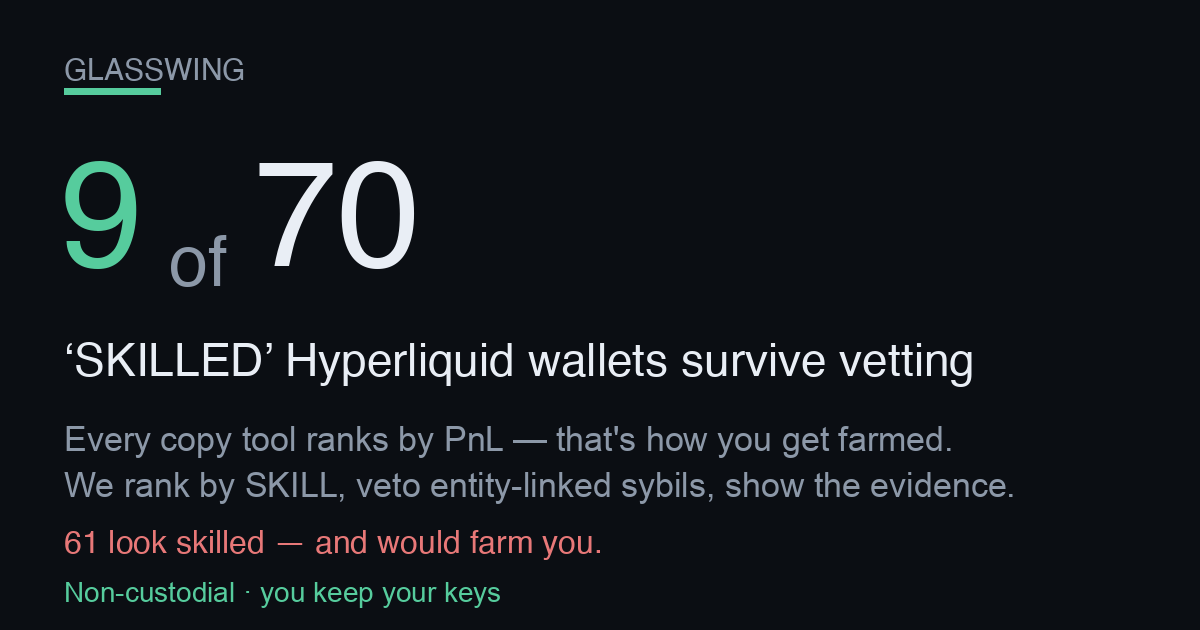
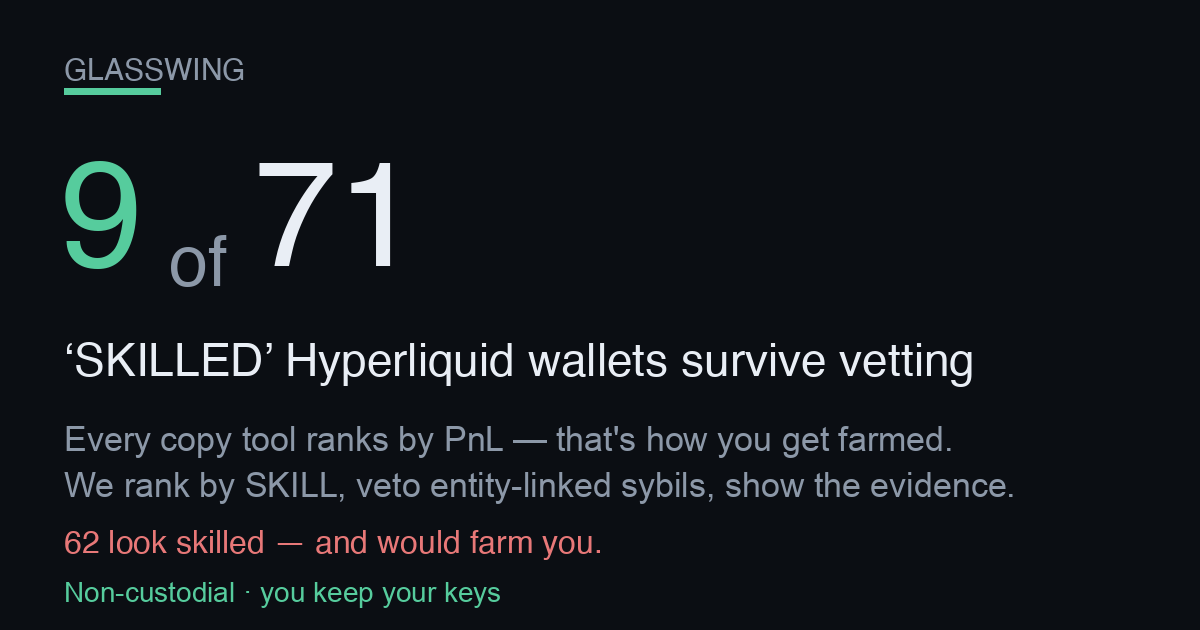
publish funnel 2026-07-26T06:14:21Z

Changed region(s): [[0.2775, 0.2413, 0.37, 0.4222], [0.0617, 0.8444, 0.0925, 0.8746]]

diff --git a/screener.html b/screener.html
@@ -57,4 +57,4 @@ padding:11px 22px;font-size:15px;font-weight:800;border:1px solid var(--good)}
 footer{margin-top:34px;color:var(--muted);font-size:12px;line-height:1.6;
 border-top:1px solid var(--line);padding-top:16px}
 footer b{color:var(--ink)}
-</style></head><body><div class="wrap"><div class="nav"><a href="./index.html">&larr; Glasswing home</a><span class="sep">|</span><span>Edge Screener</span><span class="sep">|</span><a href="./dex.html">Copy a vetted leader</a></div><div class="hero"><h1>Hyperliquid Edge Screener</h1><div class="sub">Where&rsquo;s the carry, where a maker earns, and what&rsquo;s moving on Hyperliquid &mdash; live, computed from the public API. Bookmark it. Every number below is real and timestamped.</div><div class="stamp">Data as of <b>2026-07-26T00:07:19Z</b> &middot; rendered 2026-07-26T00:07:19Z &middot; 177 perps &middot; 88 HIP-3 (xyz) markets scanned</div></div><h2>Top funding &mdash; the carry table <span class="hint">perps ranked by annualized funding. Positive = longs pay shorts (a delta-neutral short earns it).</span></h2><div class="tblwrap"><table><thead><tr><th>Coin</th><th>Funding / hr</th><th>Annualized</th><th>Who pays</th><th>Open interest</th><th>24h volume</th></tr></thead><tbody><tr><td class="coin">ACE</td><td>-0.0286%</td><td class="neg">-250.9%</td><td><span class="tag shorts">shorts pay</span></td><td>$505K</td><td>$1.7M</td></tr><tr><td class="coin">SAGA<span class="tag thin" title="Low liquidity/OI &mdash; ADL &amp; liquidation risk; funding can flip">&#9888; thin</span></td><td>+0.0118%</td><td class="pos">+103.5%</td><td><span class="tag longs">longs pay</span></td><td>$2.1M</td><td>$112K</td></tr><tr><td class="coin">kSHIB</td><td>-0.0102%</td><td class="neg">-89.1%</td><td><span class="tag shorts">shorts pay</span></td><td>$6.6M</td><td>$20.2M</td></tr><tr><td class="coin">W<span class="tag thin" title="Low liquidity/OI &mdash; ADL &amp; liquidation risk; funding can flip">&#9888; thin</span></td><td>-0.0088%</td><td class="neg">-77.1%</td><td><span class="tag shorts">shorts pay</span></td><td>$1.5M</td><td>$133K</td></tr><tr><td class="coin">MEME<span class="tag thin" title="Low liquidity/OI &mdash; ADL &amp; liquidation risk; funding can flip">&#9888; thin</span></td><td>-0.0085%</td><td class="neg">-74.6%</td><td><span class="tag shorts">shorts pay</span></td><td>$405K</td><td>$71K</td></tr><tr><td class="coin">IOTA<span class="tag thin" title="Low liquidity/OI &mdash; ADL &amp; liquidation risk; funding can flip">&#9888; thin</span></td><td>-0.0084%</td><td class="neg">-73.7%</td><td><span class="tag shorts">shorts pay</span></td><td>$316K</td><td>$68K</td></tr><tr><td class="coin">TRB<span class="tag thin" title="Low liquidity/OI &mdash; ADL &amp; liquidation risk; funding can flip">&#9888; thin</span></td><td>-0.0063%</td><td class="neg">-55.3%</td><td><span class="tag shorts">shorts pay</span></td><td>$373K</td><td>$95K</td></tr><tr><td class="coin">CC</td><td>-0.0060%</td><td class="neg">-52.4%</td><td><span class="tag shorts">shorts pay</span></td><td>$3.4M</td><td>$331K</td></tr><tr><td class="coin">SKR<span class="tag thin" title="Low liquidity/OI &mdash; ADL &amp; liquidation risk; funding can flip">&#9888; thin</span></td><td>-0.0048%</td><td class="neg">-42.2%</td><td><span class="tag shorts">shorts pay</span></td><td>$160K</td><td>$90K</td></tr><tr><td class="coin">RSR<span class="tag thin" title="Low liquidity/OI &mdash; ADL &amp; liquidation risk; funding can flip">&#9888; thin</span></td><td>-0.0044%</td><td class="neg">-38.2%</td><td><span class="tag shorts">shorts pay</span></td><td>$159K</td><td>$40K</td></tr><tr><td class="coin">ADA</td><td>-0.0042%</td><td class="neg">-36.5%</td><td><span class="tag shorts">shorts pay</span></td><td>$25.8M</td><td>$3.8M</td></tr><tr><td class="coin">YGG<span class="tag thin" title="Low liquidity/OI &mdash; ADL &amp; liquidation risk; funding can flip">&#9888; thin</span></td><td>-0.0040%</td><td class="neg">-35.5%</td><td><span class="tag shorts">shorts pay</span></td><td>$147K</td><td>$117K</td></tr></tbody></table></div><h2>Widest HIP-3 spreads &mdash; where a maker earns <span class="hint">xyz: markets by impact-price spread vs the ~0.6bps round-trip fee. A resting limit order captures the gap.</span></h2><div class="tblwrap"><table><thead><tr><th>Market</th><th>Spread</th><th>vs 0.6bps fee</th><th>Mid</th><th>24h volume</th></tr></thead><tbody><tr><td class="coin">xyz:BIRD<span class="tag gm">growth</span></td><td>156.9 bps</td><td class="pos">+156.3 bps</td><td>2.4993</td><td>$116K</td></tr><tr><td class="coin">xyz:GIGADEV<span class="tag gm">growth</span></td><td>144.3 bps</td><td class="pos">+143.7 bps</td><td>66.4355</td><td>$98K</td></tr><tr><td class="coin">xyz:SOFTBANK<span class="tag gm">growth</span></td><td>106.9 bps</td><td class="pos">+106.3 bps</td><td>33.3980</td><td>$265K</td></tr><tr><td class="coin">xyz:BOT<span class="tag gm">growth</span></td><td>79.2 bps</td><td class="pos">+78.6 bps</td><td>25.0485</td><td>$82K</td></tr><tr><td class="coin">xyz:SHAZ<span class="tag gm">growth</span></td><td>76.5 bps</td><td class="pos">+75.9 bps</td><td>63.8330</td><td>$72K</td></tr><tr><td class="coin">xyz:KR200<span class="tag gm">growth</span></td><td>72.1 bps</td><td class="pos">+71.5 bps</td><td>1,049.15</td><td>$45K</td></tr><tr><td class="coin">xyz:PURRDAT</td><td>69.3 bps</td><td class="pos">+68.7 bps</td><td>6.2946</td><td>$100K</td></tr><tr><td class="coin">xyz:CXMT<span class="tag gm">growth</span></td><td>64.6 bps</td><td class="pos">+64.0 bps</td><td>6.1269</td><td>$18.5M</td></tr><tr><td class="coin">xyz:SMH<span class="tag gm">growth</span></td><td>64.2 bps</td><td class="pos">+63.6 bps</td><td>567.7400</td><td>$123K</td></tr><tr><td class="coin">xyz:URNM<span class="tag gm">growth</span></td><td>63.9 bps</td><td class="pos">+63.3 bps</td><td>49.6770</td><td>$14K</td></tr><tr><td class="coin">xyz:MINIMAX<span class="tag gm">growth</span></td><td>58.0 bps</td><td class="pos">+57.4 bps</td><td>24.4035</td><td>$118K</td></tr><tr><td class="coin">xyz:KIOXIA<span class="tag gm">growth</span></td><td>52.5 bps</td><td class="pos">+51.9 bps</td><td>329.0150</td><td>$176K</td></tr></tbody></table></div><h2>Momentum &amp; volume &mdash; what&rsquo;s moving <span class="hint">perps by 24h volume with the 24h price change (mark vs prior-day).</span></h2><div class="tblwrap"><table><thead><tr><th>Coin</th><th>24h volume</th><th>24h change</th><th>Mark</th></tr></thead><tbody><tr><td class="coin">BTC</td><td>$704.8M</td><td class="pos">+0.44%</td><td>64,401.00</td></tr><tr><td class="coin">ETH</td><td>$228.8M</td><td class="pos">+0.77%</td><td>1,876.18</td></tr><tr><td class="coin">HYPE</td><td>$103.6M</td><td class="pos">+1.27%</td><td>58.1660</td></tr><tr><td class="coin">SOL</td><td>$61.7M</td><td class="pos">+0.79%</td><td>74.5550</td></tr><tr><td class="coin">ZEC</td><td>$30.4M</td><td class="neg">-0.56%</td><td>486.2500</td></tr><tr><td class="coin">kSHIB</td><td>$20.2M</td><td class="pos">+16.52%</td><td>0.004873</td></tr><tr><td class="coin">XRP</td><td>$14.0M</td><td class="pos">+0.57%</td><td>1.0980</td></tr><tr><td class="coin">KAITO</td><td>$11.3M</td><td class="pos">+3.99%</td><td>1.0072</td></tr><tr><td class="coin">PUMP</td><td>$9.0M</td><td class="neg">-2.99%</td><td>0.001783</td></tr><tr><td class="coin">WLD</td><td>$8.3M</td><td class="neg">-0.46%</td><td>0.34509</td></tr><tr><td class="coin">DOGE</td><td>$7.4M</td><td class="pos">+3.04%</td><td>0.0717</td></tr><tr><td class="coin">LIT</td><td>$7.4M</td><td class="pos">+1.59%</td><td>2.0721</td></tr></tbody></table></div><div class="cta"><h2>These are the opportunities. Now copy the people who trade them.</h2><p class="lead">Spotting the carry and the spreads is the easy part &mdash; sizing, timing and risk are where most traders bleed. Copy the <b>skill-vetted</b> Hyperliquid leaders who actually trade these edges. Non-custodial: <b>you keep your keys and your funds</b> the entire time.</p><div class="row"><a class="btn" href="./index.html">See the vetted leaders &rarr;</a><a class="btn ghost" href="./dex.html">Start copying (non-custodial) &rarr;</a></div><div class="nc"><b>Non-custodial &amp; honest:</b> we never hold your keys or funds. Copying routes through a <b>0.01%</b> (1bp) on-chain builder fee &mdash; that is the only thing we ever charge, and it is the same fee shown on the copy page. Nothing on this screener is executed for you; it is information only.</div></div><footer><b>Not financial advice.</b> Funding rates, spreads and volumes are live snapshots that change every block; figures can be stale by the time you act. A high funding rate is <b>not free money</b> &mdash; the biggest rates sit on the thinnest, most crowded books (flagged &#9888; thin), where funding can flip against you and auto-deleveraging (ADL) or liquidation can close your position. &ldquo;Spread&rdquo; here is the impact-price spread (a conservative maker signal), not a guaranteed fill. HIP-3 markets are experimental. Do your own research and size responsibly. Glasswing is <b>non-custodial</b> &mdash; we never take custody of your keys or funds.</footer></div></body></html>
+</style></head><body><div class="wrap"><div class="nav"><a href="./index.html">&larr; Glasswing home</a><span class="sep">|</span><span>Edge Screener</span><span class="sep">|</span><a href="./dex.html">Copy a vetted leader</a></div><div class="hero"><h1>Hyperliquid Edge Screener</h1><div class="sub">Where&rsquo;s the carry, where a maker earns, and what&rsquo;s moving on Hyperliquid &mdash; live, computed from the public API. Bookmark it. Every number below is real and timestamped.</div><div class="stamp">Data as of <b>2026-07-26T06:12:11Z</b> &middot; rendered 2026-07-26T06:12:11Z &middot; 177 perps &middot; 88 HIP-3 (xyz) markets scanned</div></div><h2>Top funding &mdash; the carry table <span class="hint">perps ranked by annualized funding. Positive = longs pay shorts (a delta-neutral short earns it).</span></h2><div class="tblwrap"><table><thead><tr><th>Coin</th><th>Funding / hr</th><th>Annualized</th><th>Who pays</th><th>Open interest</th><th>24h volume</th></tr></thead><tbody><tr><td class="coin">SAGA<span class="tag thin" title="Low liquidity/OI &mdash; ADL &amp; liquidation risk; funding can flip">&#9888; thin</span></td><td>+0.0555%</td><td class="pos">+486.5%</td><td><span class="tag longs">longs pay</span></td><td>$2.1M</td><td>$96K</td></tr><tr><td class="coin">ACE<span class="tag thin" title="Low liquidity/OI &mdash; ADL &amp; liquidation risk; funding can flip">&#9888; thin</span></td><td>-0.0338%</td><td class="neg">-296.0%</td><td><span class="tag shorts">shorts pay</span></td><td>$480K</td><td>$1.4M</td></tr><tr><td class="coin">SAND<span class="tag thin" title="Low liquidity/OI &mdash; ADL &amp; liquidation risk; funding can flip">&#9888; thin</span></td><td>-0.0074%</td><td class="neg">-64.6%</td><td><span class="tag shorts">shorts pay</span></td><td>$315K</td><td>$109K</td></tr><tr><td class="coin">APEX<span class="tag thin" title="Low liquidity/OI &mdash; ADL &amp; liquidation risk; funding can flip">&#9888; thin</span></td><td>+0.0063%</td><td class="pos">+55.6%</td><td><span class="tag longs">longs pay</span></td><td>$1.3M</td><td>$103K</td></tr><tr><td class="coin">HYPER<span class="tag thin" title="Low liquidity/OI &mdash; ADL &amp; liquidation risk; funding can flip">&#9888; thin</span></td><td>-0.0063%</td><td class="neg">-54.9%</td><td><span class="tag shorts">shorts pay</span></td><td>$301K</td><td>$68K</td></tr><tr><td class="coin">AXS<span class="tag thin" title="Low liquidity/OI &mdash; ADL &amp; liquidation risk; funding can flip">&#9888; thin</span></td><td>-0.0057%</td><td class="neg">-49.9%</td><td><span class="tag shorts">shorts pay</span></td><td>$307K</td><td>$80K</td></tr><tr><td class="coin">IOTA<span class="tag thin" title="Low liquidity/OI &mdash; ADL &amp; liquidation risk; funding can flip">&#9888; thin</span></td><td>-0.0052%</td><td class="neg">-45.1%</td><td><span class="tag shorts">shorts pay</span></td><td>$314K</td><td>$68K</td></tr><tr><td class="coin">SUSHI<span class="tag thin" title="Low liquidity/OI &mdash; ADL &amp; liquidation risk; funding can flip">&#9888; thin</span></td><td>-0.0051%</td><td class="neg">-44.7%</td><td><span class="tag shorts">shorts pay</span></td><td>$412K</td><td>$205K</td></tr><tr><td class="coin">MEME<span class="tag thin" title="Low liquidity/OI &mdash; ADL &amp; liquidation risk; funding can flip">&#9888; thin</span></td><td>-0.0049%</td><td class="neg">-42.5%</td><td><span class="tag shorts">shorts pay</span></td><td>$436K</td><td>$110K</td></tr><tr><td class="coin">2Z<span class="tag thin" title="Low liquidity/OI &mdash; ADL &amp; liquidation risk; funding can flip">&#9888; thin</span></td><td>-0.0043%</td><td class="neg">-38.1%</td><td><span class="tag shorts">shorts pay</span></td><td>$596K</td><td>$144K</td></tr><tr><td class="coin">CAKE<span class="tag thin" title="Low liquidity/OI &mdash; ADL &amp; liquidation risk; funding can flip">&#9888; thin</span></td><td>-0.0043%</td><td class="neg">-37.6%</td><td><span class="tag shorts">shorts pay</span></td><td>$536K</td><td>$161K</td></tr><tr><td class="coin">ME<span class="tag thin" title="Low liquidity/OI &mdash; ADL &amp; liquidation risk; funding can flip">&#9888; thin</span></td><td>-0.0042%</td><td class="neg">-37.2%</td><td><span class="tag shorts">shorts pay</span></td><td>$194K</td><td>$121K</td></tr></tbody></table></div><h2>Widest HIP-3 spreads &mdash; where a maker earns <span class="hint">xyz: markets by impact-price spread vs the ~0.6bps round-trip fee. A resting limit order captures the gap.</span></h2><div class="tblwrap"><table><thead><tr><th>Market</th><th>Spread</th><th>vs 0.6bps fee</th><th>Mid</th><th>24h volume</th></tr></thead><tbody><tr><td class="coin">xyz:GIGADEV<span class="tag gm">growth</span></td><td>277.0 bps</td><td class="pos">+276.4 bps</td><td>66.6170</td><td>$17K</td></tr><tr><td class="coin">xyz:BIRD<span class="tag gm">growth</span></td><td>178.1 bps</td><td class="pos">+177.5 bps</td><td>2.4830</td><td>$32K</td></tr><tr><td class="coin">xyz:SOFTBANK<span class="tag gm">growth</span></td><td>159.8 bps</td><td class="pos">+159.2 bps</td><td>33.3860</td><td>$41K</td></tr><tr><td class="coin">xyz:KIOXIA<span class="tag gm">growth</span></td><td>121.7 bps</td><td class="pos">+121.1 bps</td><td>335.4950</td><td>$284K</td></tr><tr><td class="coin">xyz:PURRDAT</td><td>81.9 bps</td><td class="pos">+81.3 bps</td><td>6.3521</td><td>$107K</td></tr><tr><td class="coin">xyz:KR200<span class="tag gm">growth</span></td><td>76.3 bps</td><td class="pos">+75.7 bps</td><td>1,053.85</td><td>$39K</td></tr><tr><td class="coin">xyz:SHAZ<span class="tag gm">growth</span></td><td>73.0 bps</td><td class="pos">+72.4 bps</td><td>63.8615</td><td>$20K</td></tr><tr><td class="coin">xyz:BOT<span class="tag gm">growth</span></td><td>72.6 bps</td><td class="pos">+72.0 bps</td><td>25.0005</td><td>$62K</td></tr><tr><td class="coin">xyz:SMH<span class="tag gm">growth</span></td><td>64.1 bps</td><td class="pos">+63.5 bps</td><td>564.6200</td><td>$103K</td></tr><tr><td class="coin">xyz:MINIMAX<span class="tag gm">growth</span></td><td>55.4 bps</td><td class="pos">+54.8 bps</td><td>24.4330</td><td>$112K</td></tr><tr><td class="coin">xyz:URNM<span class="tag gm">growth</span></td><td>41.4 bps</td><td class="pos">+40.8 bps</td><td>49.6830</td><td>$19K</td></tr><tr><td class="coin">xyz:ZHIPU<span class="tag gm">growth</span></td><td>39.4 bps</td><td class="pos">+38.8 bps</td><td>160.0600</td><td>$421K</td></tr></tbody></table></div><h2>Momentum &amp; volume &mdash; what&rsquo;s moving <span class="hint">perps by 24h volume with the 24h price change (mark vs prior-day).</span></h2><div class="tblwrap"><table><thead><tr><th>Coin</th><th>24h volume</th><th>24h change</th><th>Mark</th></tr></thead><tbody><tr><td class="coin">BTC</td><td>$647.0M</td><td class="pos">+0.47%</td><td>64,327.00</td></tr><tr><td class="coin">ETH</td><td>$226.1M</td><td class="pos">+1.23%</td><td>1,881.40</td></tr><tr><td class="coin">HYPE</td><td>$108.1M</td><td class="pos">+2.45%</td><td>58.5720</td></tr><tr><td class="coin">SOL</td><td>$60.1M</td><td class="pos">+1.20%</td><td>74.8420</td></tr><tr><td class="coin">kSHIB</td><td>$40.6M</td><td class="pos">+36.56%</td><td>0.005722</td></tr><tr><td class="coin">ZEC</td><td>$28.2M</td><td class="pos">+2.01%</td><td>487.8200</td></tr><tr><td class="coin">XRP</td><td>$14.1M</td><td class="pos">+0.52%</td><td>1.0971</td></tr><tr><td class="coin">KAITO</td><td>$13.4M</td><td class="pos">+6.28%</td><td>1.0257</td></tr><tr><td class="coin">PUMP</td><td>$11.4M</td><td class="pos">+0.33%</td><td>0.001816</td></tr><tr><td class="coin">DOGE</td><td>$10.8M</td><td class="pos">+5.49%</td><td>0.073207</td></tr><tr><td class="coin">WLD</td><td>$9.0M</td><td class="neg">-2.49%</td><td>0.33302</td></tr><tr><td class="coin">VVV</td><td>$7.3M</td><td class="pos">+13.47%</td><td>14.2340</td></tr></tbody></table></div><div class="cta"><h2>These are the opportunities. Now copy the people who trade them.</h2><p class="lead">Spotting the carry and the spreads is the easy part &mdash; sizing, timing and risk are where most traders bleed. Copy the <b>skill-vetted</b> Hyperliquid leaders who actually trade these edges. Non-custodial: <b>you keep your keys and your funds</b> the entire time.</p><div class="row"><a class="btn" href="./index.html">See the vetted leaders &rarr;</a><a class="btn ghost" href="./dex.html">Start copying (non-custodial) &rarr;</a></div><div class="nc"><b>Non-custodial &amp; honest:</b> we never hold your keys or funds. Copying routes through a <b>0.01%</b> (1bp) on-chain builder fee &mdash; that is the only thing we ever charge, and it is the same fee shown on the copy page. Nothing on this screener is executed for you; it is information only.</div></div><footer><b>Not financial advice.</b> Funding rates, spreads and volumes are live snapshots that change every block; figures can be stale by the time you act. A high funding rate is <b>not free money</b> &mdash; the biggest rates sit on the thinnest, most crowded books (flagged &#9888; thin), where funding can flip against you and auto-deleveraging (ADL) or liquidation can close your position. &ldquo;Spread&rdquo; here is the impact-price spread (a conservative maker signal), not a guaranteed fill. HIP-3 markets are experimental. Do your own research and size responsibly. Glasswing is <b>non-custodial</b> &mdash; we never take custody of your keys or funds.</footer></div></body></html>

diff --git a/track.html b/track.html
@@ -62,7 +62,7 @@ font-weight:600;font-size:14px}
 <div class="wrap">
   <div class="hero">
     <h1>Self-verifying on-chain track record</h1>
-    <div class="big">$334.43</div>
+    <div class="big">$332.50</div>
     <div class="sub">current on-chain equity (perp + vault + spot USDC)</div>
     <div class="addr">0xbe6C1b09662BbE52CC93279D103Feb27985DdBc1</div>
     <div class="stage early">7 days live — EARLY / NOT YET A MATURE RECORD</div>
@@ -72,25 +72,25 @@ font-weight:600;font-size:14px}
 
   <h2>On-chain figures <span style="color:var(--muted);font-weight:400;font-size:13px">
   &mdash; every one reproducible from the public info API</span></h2>
-  <table><tbody><tr><td class="k">On-chain equity (perp + vault + spot USDC)</td><td class="v">$334.43</td></tr><tr><td class="k">Perp account value</td><td class="v">$220.77</td></tr><tr><td class="k">Vault equity</td><td class="v">$49.52</td></tr><tr><td class="k">Spot USDC</td><td class="v">$64.14</td></tr><tr><td class="k">Withdrawable</td><td class="v">$98.20</td></tr></tbody></table>
+  <table><tbody><tr><td class="k">On-chain equity (perp + vault + spot USDC)</td><td class="v">$332.50</td></tr><tr><td class="k">Perp account value</td><td class="v">$218.76</td></tr><tr><td class="k">Vault equity</td><td class="v">$49.61</td></tr><tr><td class="k">Spot USDC</td><td class="v">$64.14</td></tr><tr><td class="k">Withdrawable</td><td class="v">$95.16</td></tr></tbody></table>
 
-  <h2>Vault deposits (on-chain)</h2><table><thead><tr><th>Vault address</th><th>Our equity</th></tr></thead><tbody><tr><td class="mono">0x2431edfcb662e6ff6deab113cc91878a0b53fb0f</td><td class="v">$0.01</td></tr><tr><td class="mono">0x697bc3dd77539fa84156d0e1c95287ea5524fd6b</td><td class="v">$25.52</td></tr><tr><td class="mono">0x8825e6ed11c7f9c0874579c9f4bba192b9e81c8f</td><td class="v">$0.12</td></tr><tr><td class="mono">0xc71f5a493b937e4b1798b86510630336a6dfd804</td><td class="v">$23.88</td></tr></tbody></table>
+  <h2>Vault deposits (on-chain)</h2><table><thead><tr><th>Vault address</th><th>Our equity</th></tr></thead><tbody><tr><td class="mono">0x2431edfcb662e6ff6deab113cc91878a0b53fb0f</td><td class="v">$0.01</td></tr><tr><td class="mono">0x697bc3dd77539fa84156d0e1c95287ea5524fd6b</td><td class="v">$25.48</td></tr><tr><td class="mono">0x8825e6ed11c7f9c0874579c9f4bba192b9e81c8f</td><td class="v">$0.12</td></tr><tr><td class="mono">0xc71f5a493b937e4b1798b86510630336a6dfd804</td><td class="v">$24.00</td></tr></tbody></table>
 
   <h2>Performance <span style="color:var(--muted);font-weight:400;font-size:13px">
   &mdash; honest stage, no annualization</span></h2>
-  <table><tbody><tr><td class="k">Days live (our formal record)</td><td class="v">7</td></tr><tr><td class="k">Maturity</td><td class="v">EARLY / NOT YET A MATURE RECORD</td></tr><tr><td class="k">Current real strategy income / day</td><td class="v">$0.0647</td></tr><tr><td class="k">Cumulative net income (if attributed)</td><td class="v">$0.4458</td></tr><tr><td class="k">Annualized APR</td><td class="v">intentionally NOT computed (record too young)</td></tr></tbody></table>
+  <table><tbody><tr><td class="k">Days live (our formal record)</td><td class="v">7</td></tr><tr><td class="k">Maturity</td><td class="v">EARLY / NOT YET A MATURE RECORD</td></tr><tr><td class="k">Current real strategy income / day</td><td class="v">$0.0648</td></tr><tr><td class="k">Cumulative net income (if attributed)</td><td class="v">$0.4604</td></tr><tr><td class="k">Annualized APR</td><td class="v">intentionally NOT computed (record too young)</td></tr></tbody></table>
 
   <h2>Strategy arms <span style="color:var(--muted);font-weight:400;font-size:13px">
   &mdash; internal marks, cross-checkable against chain equity</span></h2>
-  <table><thead><tr><th>Arm</th><th>Status</th><th>Real / day</th><th>Note</th></tr></thead><tbody><tr><td class="v">carry</td><td><span class="badge live">live</span></td><td class="v">$0.0647</td><td class="k"></td></tr><tr><td class="v">copy</td><td><span class="badge live">live</span></td><td class="v">$0.0000</td><td class="k"></td></tr><tr><td class="v">builder</td><td><span class="badge off">—</span></td><td class="v">$0.0000</td><td class="k">proven live; $0 until distributed (∝ users&#x27; volume)</td></tr></tbody></table>
+  <table><thead><tr><th>Arm</th><th>Status</th><th>Real / day</th><th>Note</th></tr></thead><tbody><tr><td class="v">carry</td><td><span class="badge live">live</span></td><td class="v">$0.0648</td><td class="k"></td></tr><tr><td class="v">copy</td><td><span class="badge live">live</span></td><td class="v">$0.0000</td><td class="k"></td></tr><tr><td class="v">builder</td><td><span class="badge off">—</span></td><td class="v">$0.0000</td><td class="k">proven live; $0 until distributed (∝ users&#x27; volume)</td></tr></tbody></table>
 
   <h2>Reproduce it</h2>
   <div class="verify"><h3>Verify this yourself</h3><p>These are PUBLIC calls. Run them yourself against the address below and you will re-derive every on-chain figure on this page. equity_usd = perp accountValue + vault equity + spot USDC. Endpoint: https://api.hyperliquid.xyz/info</p><div class="cn">clearinghouseState &rarr; marginSummary.accountValue (perp value), withdrawable, marginSummary.totalMarginUsed</div><pre>curl -s -X POST https://api.hyperliquid.xyz/info -H &#x27;Content-Type: application/json&#x27; -d &#x27;{&quot;type&quot;: &quot;clearinghouseState&quot;, &quot;user&quot;: &quot;0xbe6C1b09662BbE52CC93279D103Feb27985DdBc1&quot;}&#x27;</pre><div class="cn">userVaultEquities &rarr; sum of each entry&#x27;s equity (our vault deposits)</div><pre>curl -s -X POST https://api.hyperliquid.xyz/info -H &#x27;Content-Type: application/json&#x27; -d &#x27;{&quot;type&quot;: &quot;userVaultEquities&quot;, &quot;user&quot;: &quot;0xbe6C1b09662BbE52CC93279D103Feb27985DdBc1&quot;}&#x27;</pre><div class="cn">spotClearinghouseState &rarr; balances[] where coin==USDC -&gt; total (spot USDC)</div><pre>curl -s -X POST https://api.hyperliquid.xyz/info -H &#x27;Content-Type: application/json&#x27; -d &#x27;{&quot;type&quot;: &quot;spotClearinghouseState&quot;, &quot;user&quot;: &quot;0xbe6C1b09662BbE52CC93279D103Feb27985DdBc1&quot;}&#x27;</pre></div>
 
   <footer>
     <div>Self-verifying: every on-chain figure is reproducible by querying Hyperliquid&#x27;s public info API for the stated address. Internal daily marks are cross-checkable against on-chain equity. EARLY-STAGE record — not a mature track record, not an APR promise, not financial advice. Past performance != future results.</div>
-    <div class="stamp">Generated at 2026-07-26T00:06:01Z &middot; internal marks
-    mtime 2026-07-25T22:50:35Z &middot; static receipt, no live
+    <div class="stamp">Generated at 2026-07-26T06:11:32Z &middot; internal marks
+    mtime 2026-07-26T04:50:45Z &middot; static receipt, no live
     authority — this page never trades or arms.</div>
   </footer>
 </div>

diff --git a/index.html b/index.html
@@ -3,8 +3,8 @@
 <head>
 <meta charset="utf-8">
 <meta name="viewport" content="width=device-width, initial-scale=1">
-<title>9 of 70 SKILLED Hyperliquid wallets survive vetting</title>
-<meta name="description" content="9 of 70 leaderboard-SKILLED Hyperliquid wallets survive vetting. Copy only the survivors, non-custodial — you keep your keys and funds.">
+<title>9 of 71 SKILLED Hyperliquid wallets survive vetting</title>
+<meta name="description" content="9 of 71 leaderboard-SKILLED Hyperliquid wallets survive vetting. Copy only the survivors, non-custodial — you keep your keys and funds.">
 <link rel="canonical" href="https://dynobit.github.io/glasswing/">
 <meta name="robots" content="index,follow">
 <meta name="theme-color" content="#0b0e13">
@@ -14,14 +14,14 @@
      head, not this. og:url is the canonical Pages home so every share resolves here. -->
 <meta property="og:type" content="website">
 <meta property="og:site_name" content="Glasswing">
-<meta property="og:title" content="9 of 70 SKILLED Hyperliquid wallets survive vetting">
+<meta property="og:title" content="9 of 71 SKILLED Hyperliquid wallets survive vetting">
 <meta property="og:description" content="Every copy tool ranks leaders by PnL — which is how you get farmed. This ranks by SKILL, then vetoes entity-linked sybils, and shows the evidence for every reject. Non-custodial: you keep your keys.">
 <meta property="og:url" content="https://dynobit.github.io/glasswing/">
 <meta property="og:image" content="https://dynobit.github.io/glasswing/og-card.png">
 <meta property="og:image:width" content="1200">
 <meta property="og:image:height" content="630">
 <meta name="twitter:card" content="summary_large_image">
-<meta name="twitter:title" content="9 of 70 SKILLED Hyperliquid wallets survive vetting">
+<meta name="twitter:title" content="9 of 71 SKILLED Hyperliquid wallets survive vetting">
 <meta name="twitter:description" content="Skill-ranked (not PnL-ranked) HL copy-leaders, entity-linked sybils vetoed with evidence. Non-custodial.">
 <meta name="twitter:image" content="https://dynobit.github.io/glasswing/og-card.png">
 <style>
@@ -135,18 +135,18 @@ footer .nc{color:var(--good);font-weight:600}
 
   <!-- 1. HERO — the shareable hook (screenshot-worthy) -->
   <div class="hero">
-    <h1><span class="big">9 of 70</span> &lsquo;SKILLED&rsquo;
+    <h1><span class="big">9 of 71</span> &lsquo;SKILLED&rsquo;
     Hyperliquid wallets survive vetting</h1>
-    <div class="sub">The other <span class="trap">61</span> look skilled on a
+    <div class="sub">The other <span class="trap">62</span> look skilled on a
     raw copy leaderboard but would farm you &mdash; here are the
-    <span class="trap">61</span> that would. Entity-linked sybils,
-    wash-traded track records, or simply unscreened. 12.9% survive.
-    Universe: 564 scored wallets.</div>
+    <span class="trap">62</span> that would. Entity-linked sybils,
+    wash-traded track records, or simply unscreened. 12.7% survive.
+    Universe: 584 scored wallets.</div>
   </div>
 
   <!-- 2. THE WEDGE — the marketing (why us, not any other copy tool) -->
   <div class="wedge"><span class="them">Every other copy tool ranks all
-    70 by PnL and calls it a leaderboard.</span> We are the only one that
+    71 by PnL and calls it a leaderboard.</span> We are the only one that
     <b>flags the entity-linked and farming wallets with on-chain evidence</b> &mdash;
     transfer-graph linkage between wallets and arXiv memecoin farm-features &mdash;
     and shows you only the 9 that survive. A high PnL is exactly what a
@@ -268,7 +268,7 @@ footer .nc{color:var(--good);font-weight:600}
   <footer>
     <div class="nc">Non-custodial: we never hold your keys or funds. No server, no backend. Your browser talks only to Hyperliquid&#x27;s public API.</div>
     <div>Advisory. Skill = sign-randomization null vs luck. Entity veto = public transfer-graph linkage. Farm screen = arXiv:2601.08641 features (memecoin thresholds, HL-uncalibrated). Follower-realizable PnL is NOT yet proven — a PRE-COMMITTED forward test is in progress (0/2 windows, earliest 2026-08-13); the copyability claim publishes only when the pre-registered windows close, so it cannot be discovery-mined. Exit-alpha shown is advisory. Not financial advice.</div>
-    <div class="stamp">Generated at 2026-07-26T00:06:08Z &middot; single-file funnel,
+    <div class="stamp">Generated at 2026-07-26T06:11:47Z &middot; single-file funnel,
     no live authority. In-browser order signing is IMPLEMENTED (real secp256k1 +
     keccak + msgpack EIP-712 from a pinned CDN) but UNVALIDATED against Hyperliquid:
     mainnet is blocked until a testnet order is proven accepted.</div>

diff --git a/dex.html b/dex.html
@@ -112,8 +112,8 @@ footer .nc{color:var(--good);font-weight:600}
     funds and your keys the whole time. Two signatures in your own wallet, an
     ephemeral in-browser agent key that can trade but never withdraw, and a
     client-side loop that mirrors only the
-    <b>9 of 70</b> vetted survivors
-    (universe: 564 scored wallets). No server, no backend.</div>
+    <b>9 of 71</b> vetted survivors
+    (universe: 584 scored wallets). No server, no backend.</div>
     <div class="tag">static bundle &middot; IPFS-publishable &middot; revenue accrues on-chain</div>
   </div>
 
@@ -217,7 +217,7 @@ footer .nc{color:var(--good);font-weight:600}
   <footer>
     <div class="nc">Pure DEX, self-custodial. No server, no backend, no key we ever hold. Your browser talks only to Hyperliquid&#x27;s public API.</div>
     <div>Advisory. Skill = sign-randomization null vs luck. Entity veto = public transfer-graph linkage. Farm screen = arXiv:2601.08641 features (memecoin thresholds, HL-uncalibrated). Follower-realizable PnL is NOT yet proven — a PRE-COMMITTED forward test is in progress (0/2 windows, earliest 2026-08-13); the copyability claim publishes only when the pre-registered windows close, so it cannot be discovery-mined. Exit-alpha shown is advisory. Not financial advice.</div>
-    <div class="stamp">Generated at 2026-07-26T00:06:08Z &middot; static,
+    <div class="stamp">Generated at 2026-07-26T06:11:47Z &middot; static,
     self-custodial surface, no live authority. In-browser order signing is
     IMPLEMENTED (real secp256k1 + keccak + msgpack EIP-712 from a pinned CDN) but
     UNVALIDATED against Hyperliquid: mainnet is blocked until a testnet order is
